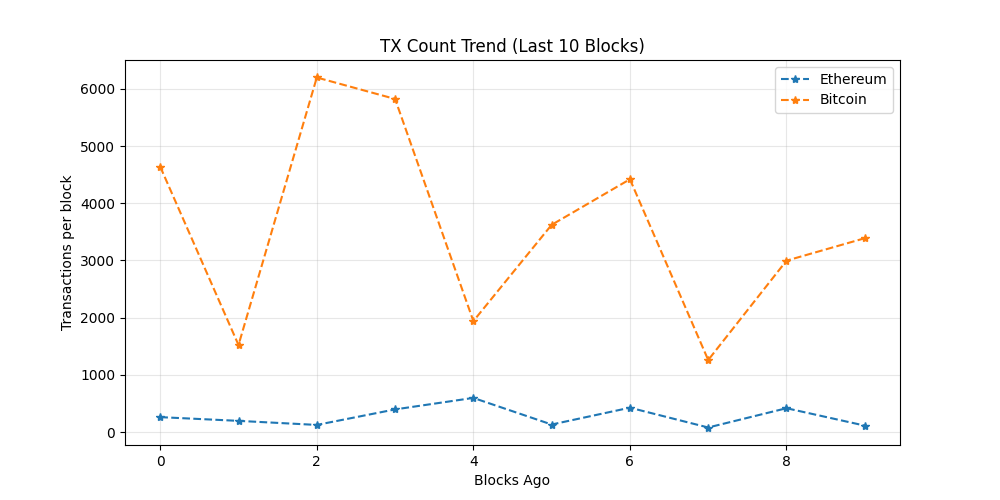
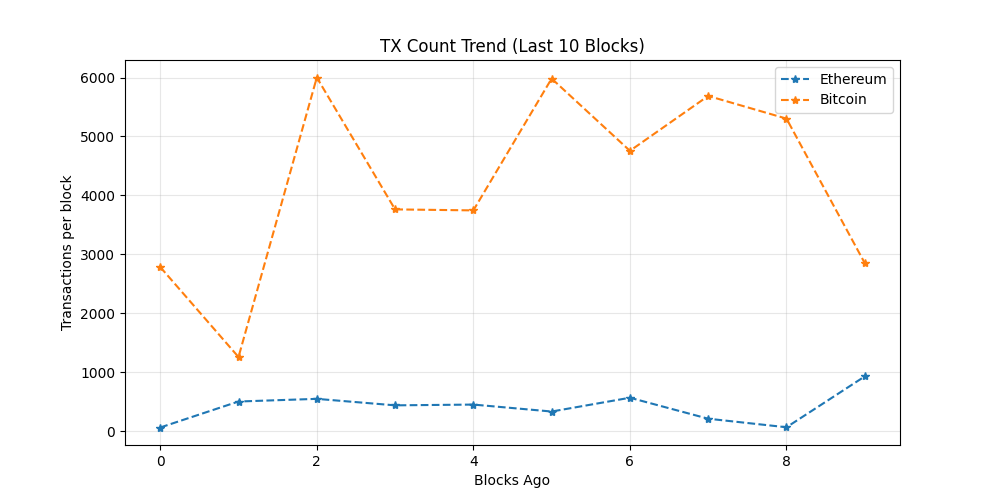
chore: update on-chain dashboard

diff --git a/README.md b/README.md
@@ -19,7 +19,7 @@ The README itself acts as the dashboard and is regenerated automatically on a 6 
 demonstrating a production-style, infrastructure-focused observability workflow rather
 than a traditional UI-driven approach.
 
-_Last updated: 2026-03-30 08:00 UTC_
+_Last updated: 2026-03-30 14:01 UTC_
 
 ## API Usage (GetBlock.io)
 - Calls used: **24**
@@ -27,8 +27,8 @@ _Last updated: 2026-03-30 08:00 UTC_
 ## Network Metrics
 | Chain | Block Height | TX Count | TPS (10 blk avg) | Block Util | Avg Fee |
 |------|-------------|----------|------------------|------------|---------|
-| Ethereum | 24769084 | 115 | 9.58 | 18.77% | 0.1 Gwei |
-| Bitcoin | 942904 | 3389 | 3.72 | 99.79% | N/A |
+| Ethereum | 24770878 | 928 | 77.33 | 99.57% | 0.2 Gwei |
+| Bitcoin | 942937 | 2850 | 3.08 | 89.8% | N/A |
 
 ## Visuals
 ### Transactions Trend
@@ -43,11 +43,11 @@ _Last updated: 2026-03-30 08:00 UTC_
 ## Whale Alerts (latest block)
 - Transaction hashes are truncated for readability.
 - Full hashes are available in `dashboards/metrics.json`
-- Bitcoin | 118.31 BTC | `2f44ea7ec03b…`
-- Bitcoin | 161.88 BTC | `9eb68766f4db…`
-- Bitcoin | 161.88 BTC | `7ca1ae444506…`
-- Bitcoin | 161.88 BTC | `22af91832da2…`
-- Bitcoin | 161.82 BTC | `e7bd0f8187d0…`
+- Bitcoin | 248.76 BTC | `867e2db11c4e…`
+- Bitcoin | 104.51 BTC | `e347c6ac90ea…`
+- Bitcoin | 117.34 BTC | `4a1de2556986…`
+- Bitcoin | 1630.56 BTC | `c7ee727aa356…`
+- Bitcoin | 129.38 BTC | `f9d398caffb7…`
 
 ## Run locally
 
